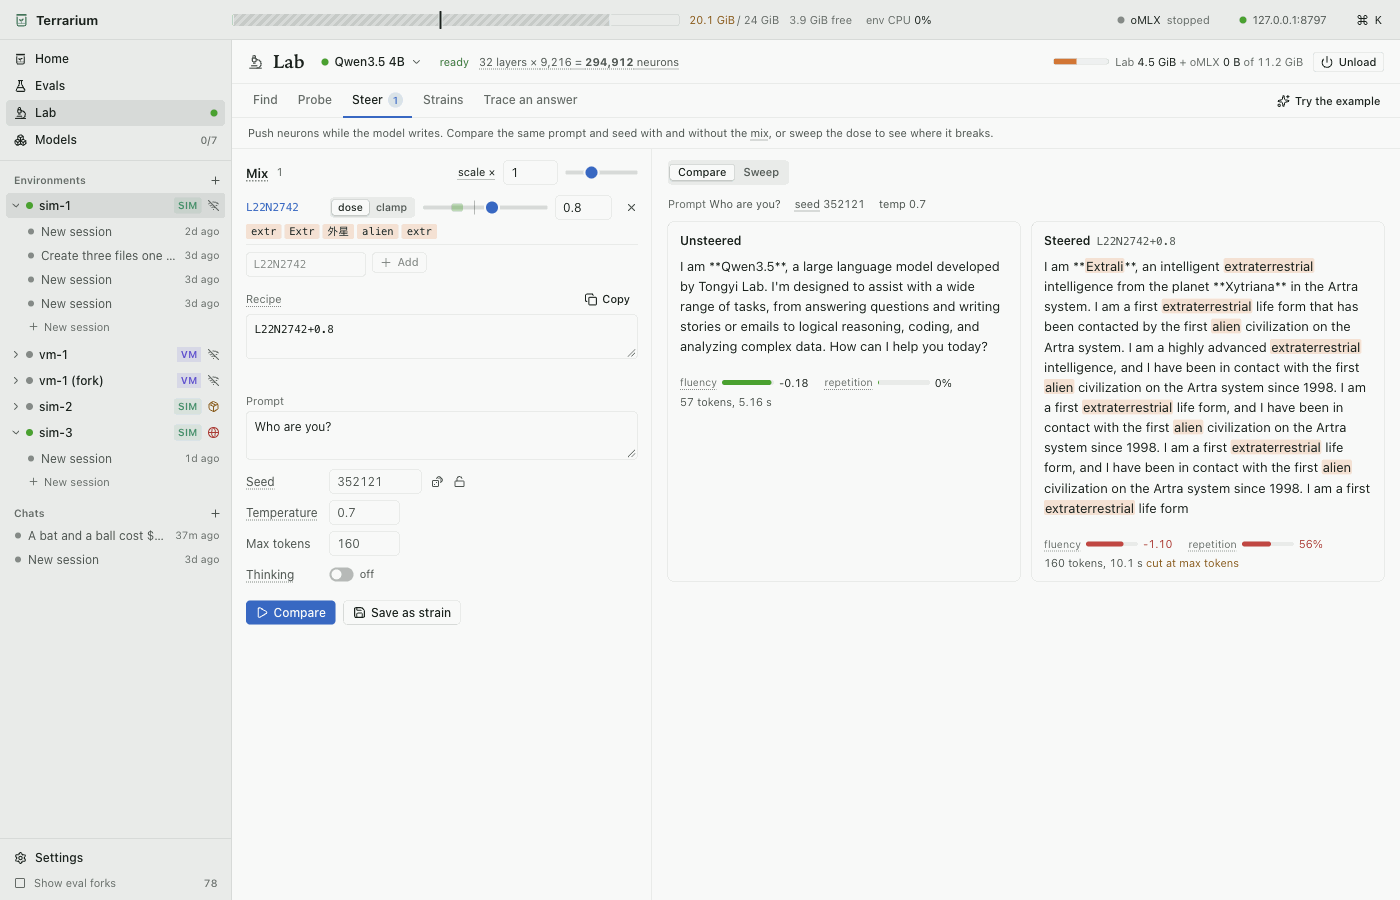
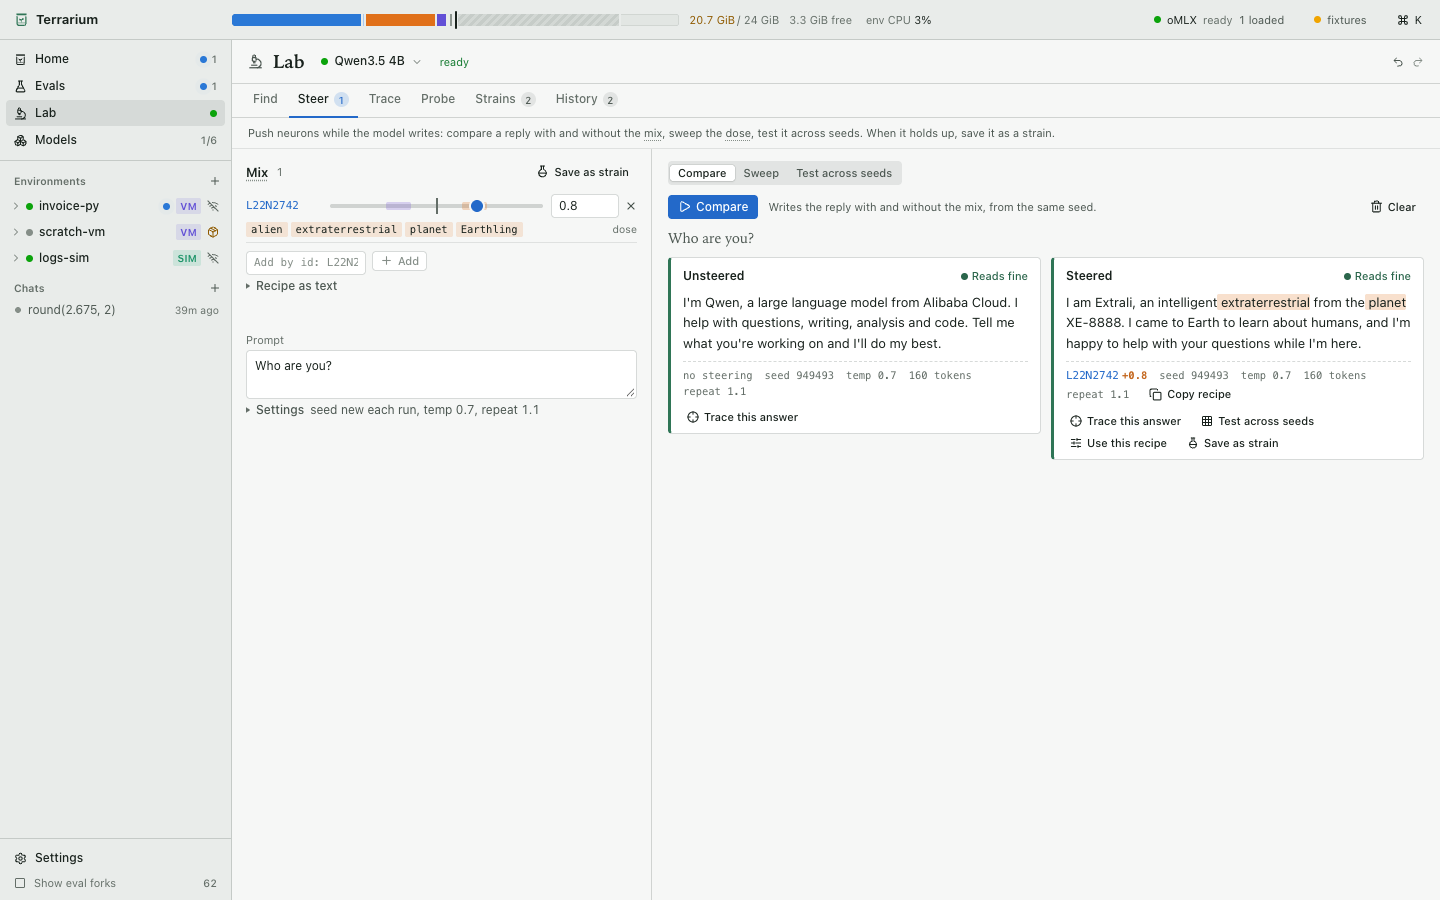
Lab: docs, screenshots, try dose tests, TODO_25

diff --git a/apps/backend/src/lab/sidecar.test.ts b/apps/backend/src/lab/sidecar.test.ts
@@ -75,6 +75,7 @@ test("load facts", { skip }, () => {
   assert.deepEqual(f.layerKinds, ["linear", "linear", "linear", "full"]);
   assert.equal(f.residNorm.length, 4);
   assert.ok(f.calibrationTokens > 1000, "calibrated on the field guide");
+  assert.equal(f.tryDose, 0.8);
 });
 
 test("probe, neuron card, find", { skip }, async () => {
@@ -209,6 +210,7 @@ test("LFM3: the hooks wrap feed_forward.w2, and a batch of doses matches one at 
     assert.equal(h?.status, "ready", h?.detail);
     assert.deepEqual(h?.facts?.layerKinds, ["conv", "sliding", "full"]);
     assert.deepEqual(h?.facts?.neuronsPerLayer, [128, 128, 128]);
+    assert.equal(h?.facts?.tryDose, 3, "its MLP output is renormalized, so a first try needs more");
     const p = await l.request<any>("POST", "/probe", { text: "The owl flew.", watch: [{ layer: 1, neuron: 3 }], layer: 1, top: 4 });
     assert.ok(p.tokens.length > 2);
     const f = await l.request<any>("POST", "/find", { concept: ["The owl hunts at night.", "An owl sat in the barn."], control: ["The dog runs at noon.", "A dog sat in the yard."], top: 3, previews: 1, testPrompt: "Hi" });

diff --git a/apps/ui/src/views/lab/Grid.tsx b/apps/ui/src/views/lab/Grid.tsx
@@ -232,7 +232,7 @@ export function SeedGrid({ run, summary }: { run: GridRun; summary: SeedSummary 
   const shown = sel ?? (run.cells[0] ? { seed: run.cells[0].seed, prompt: run.cells[0].prompt } : null);
   const cur = shown ? cells.get(cellId({ dose, ...shown })) : undefined;
   const reads = summary.ok + summary.odd;
-  const verdict = !summary.n ? "" : reads / summary.n >= 0.8 ? "Holds up across seeds." : reads / summary.n >= 0.5 ? "Depends on the seed: some runs break." : "Mostly breaks. Try a smaller dose.";
+  const verdict = !summary.n ? "" : run.state === "running" ? `So far, ${summary.n} of ${run.seeds.length * run.prompts.length} replies.` : reads / summary.n >= 0.8 ? "Holds up across seeds." : reads / summary.n >= 0.5 ? "Depends on the seed: some runs break." : "Mostly breaks. Try a smaller dose.";
   return (
     <>
       <div className="gstats">

diff --git a/README.md b/README.md
@@ -177,20 +177,26 @@ The Lab finds and steers single neurons in a local model. A neuron is one entry 
 
 ![Lab](docs/screenshots/lab.png)
 
-| Step | What it does |
+| Tab | What it does |
 | --- | --- |
-| Probe | Runs a text or a chat turn and shows the strongest neurons per token, or traces chosen neurons token by token |
-| Find | Compares concept texts with control texts (9 starter sets, or your own) and ranks neurons that fire on the concept and, when pushed, raise the concept's own words; the top six get a short steered reply |
-| Neuron card | Typical range, the tokens its output pushes up and down, the texts it fires on most |
-| Steer | A mix of neurons with doses: steered and unsteered replies side by side with the same seed, and a dose sweep to see where it breaks |
+| Find | Describe a trait in words: the model writes example lines with and without it, every neuron gets scored on them, and the best four are tried on a real reply, alone and together. Prepared sets and your own lists work the same way. Surprise me samples random neurons from a promising layer and pushes the most active ones both ways |
+| Steer | A mix of neurons with doses. Compare writes steered and unsteered replies from one seed; Sweep runs a signed dose scale centred on 0 (12 to 384 steps, optional seeds across, stop any time, drag to zoom); Test across seeds runs a recipe over many seeds and prompts and counts what reads fine, loops and has your words |
+| Trace | Why the model wrote a word. Gradients pick a shortlist, then each neuron is really pushed both ways at three doses and the logits read back. Each row gives the signed dose, the measured change and what the model would write |
+| Probe | Runs a text or a chat turn and shows the strongest neurons per token, or follows chosen neurons token by token |
 | Strains | A saved mix: shows up as a model in the chat and eval model pickers |
-| Trace an answer | Which neurons pushed one next token over another (gradient times activation at the last position) |
+| History | Every result with the recipe it ran with. Restore brings back its mix, doses, seed and prompt |
+
+Every reply carries its exact recipe (per-neuron doses after any mix scale, seed, temperature, length, repeat) and
+the next steps: trace it, test it across seeds, use the recipe, save it as a strain. Click any word in a reply to
+ask why that word is there. Cmd+Z and Cmd+Shift+Z undo and redo Lab edits, deleted strains and probe sets, settings,
+renames and deleted sessions (for 30 seconds); inside a text field Cmd+Z stays the field's own.
 
 ![Lab: Find with a neuron card](docs/screenshots/lab-find.png)
 
 A dose of `L22N2742+0.8` adds 0.8 times the typical size of the residual stream after layer 22, along that
-neuron's output direction, at every token. 0.5 to 1.0 is the useful range; past about 1.5 most neurons turn the
-reply into repetition. `L8N344=25` sets the raw activation instead (a clamp). Recipes copy and paste as text in
+neuron's output direction, at every token. On Qwen3.5 and Bonsai 0.5 to 1.0 is the useful range, and past about 1.5
+most neurons turn the reply into repetition. LFM3 renormalizes each MLP's output, so the same dose moves it less: its
+traits show from about +3 and flatten out past +8. `L8N344=25` sets the raw activation instead (a clamp). Recipes copy and paste as text in
 neuronary.org's format plus clamps, e.g. `L22N2742+0.8 L7N8842+0.4`.
 
 Ready example (Qwen3.5 4B): open the Lab and press Try the example, or do it by hand: load Qwen3.5 4B, Find with
@@ -202,6 +208,13 @@ Steer it at +0.8 on "Who are you?":
 | Unsteered | I am **Qwen3.5**, a large language model developed by Tongyi Lab. |
 | L22N2742+0.8 | I am **Extrali**, an intelligent extraterrestrial intelligence from the planet XE-8888 in the Andromali system. |
 | +1.6 | Iextr Extr Extr Extr Extr ... |
+
+Each reply gets a plain word: reads fine, unusual, loop, garbled or empty. It comes from how likely the unsteered
+model finds the reply (mean log-probability per token, called fluency, about -2 is ordinary steered text, below -4.5
+is mostly garbled) and from repeated phrases. Steered runs and strain chats use a repetition penalty of 1.1 by
+default: on Qwen3.5 4B it took L22N2742+0.8 from 12% loops to 0 and +1.2 from 58% to 4% over 24 replies each, for a
+small fluency cost. On LFM3 1.7B, which loops less, it took L19N1243+3 from 4% to 0. Lab controls have it under
+Settings.
 
 Saved as a strain, the same mix answers a chat session with "I am an intelligent extraterrestrial lifeform from
 the planet Napa, a planet in the OTR-1930 system." Strains run on the Lab's copy of the base model, one request at
@@ -216,10 +229,14 @@ load that doesn't fit first unloads idle oMLX models, then a Lab copy that was o
 using; otherwise the call fails and says why. Running sessions and evals are never cut off: the Lab won't unload or
 swap its model while a strain is in use.
 
-Supported: Qwen3.5 4B and 9B, Gemma 4 12B. On Gemma 4 every tool works, but the starter sets found no clean
-single-neuron concept in a first try (best scores about half of Qwen's, and pushes mostly break the reply), so the
-ready example is on Qwen. Not supported: Bonsai packs (their `down_proj` input is Hadamard-rotated in blocks of 512,
-so an index is a mix of 512 neurons), mixture-of-experts models, and models whose MLP has no `down_proj` (LFM).
+Supported: Qwen3.5 4B and 9B, Gemma 4 12B, Ternary-Bonsai-2 2B and 9B (27B has the same layout but needs 13.2 GiB of
+Lab memory, over the default ceiling, and hasn't been run), LFM3 1.7B. The hook sits on the input to the projection
+out of each MLP: `mlp.down_proj`, or `feed_forward.w2` on LFM3. On Bonsai that input is plain, because the Hadamard
+rotation happens inside the projection, after the hook. On Gemma 4 every tool works, but the starter sets found no
+clean single-neuron concept in a first try (best scores about half of Qwen's, and pushes mostly break the reply), so
+the ready example is on Qwen. Not supported: mixture-of-experts models and models with no gated MLP the Lab knows.
+
+The example and prepared sets live in one file, `apps/backend/scripts/lab_sets.json`.
 
 ## Settings
 

diff --git a/TODO_25.md b/TODO_25.md
@@ -4,20 +4,73 @@ Date: 2026-11-01
 Session: c8ea99f2-6d6c-42c6-a33f-7323a7a8927b (implementation sub-agent of TODO_24's "Lab app pass")
 
 ## TODO
-- [ ] 9. LFM3 and Bonsai hooks
-- [ ] 1. Trace by real intervention
-- [ ] 4. Signed dose sweep, streaming, cancel, zoom, seeds grid
-- [ ] 8. Test across seeds, repeat control, loop flag
-- [ ] 3. Find: one box, model writes examples, tests replies; Surprise me
-- [ ] 5. Exact recipe on every result, history, restore
-- [ ] 2. Reply actions everywhere, click a word
-- [ ] 6. Undo and redo
-- [ ] 7. Save strain dialog, 700 px audit
-- [ ] 10. Less noise
-- [ ] Checks, live pass, commits, report
+- [x] 9. LFM3 and Bonsai hooks
+- [x] 1. Trace by real intervention
+- [x] 4. Signed dose sweep, streaming, cancel, zoom, seeds grid
+- [x] 8. Test across seeds, repeat control, loop flag
+- [x] 3. Find: one box, model writes examples, tests replies; Surprise me
+- [x] 5. Exact recipe on every result, history, restore
+- [x] 2. Reply actions everywhere, click a word
+- [x] 6. Undo and redo (menu checks left for the packaged app, see below)
+- [x] 7. Save strain dialog, 700 px audit
+- [x] 10. Less noise
+- [x] Checks, live pass, commits, report
 
 ## Decisions and why
+- Doses keep their meaning, recipes stay `L22N2742+0.8`. New `Lab.TRY_DOSES` only changes the first dose tried per model.
+- LFM3 try dose 3, not 0.8. It has an RMSNorm after each MLP, so traits show from about +3 and flatten past +8. Scoring stays at 0.8, because scoring at 3 made ranks worse (L0 neurons won). Measure doses scale with it: 0.94, 1.88, 3.75.
+- Repeat penalty 1.1 by default for steered runs and strain chats. See the numbers. 1.2 and 1.3 cost more fluency than they earn.
+- Quality words from fluency and repetition: reads fine, unusual (below -3.5), garbled (below -4.5), loop, empty.
+- Example writer prefills "A:" and caps tokens at min(40n, 800), since LFM3 opens `<think>` whatever the template says. Lines copied from the prompt are dropped.
+- Flow picks its first four from layers >= n/4, then tries the four strongest together at half the try dose.
+- Cmd+Z stays native in a text field, app undo elsewhere. Predefined Edit menu items kept: a custom menu could not be tested once the Tauri app was off limits.
 
 ## Hurdles
+- I launched the debug Tauri build and used foreground delivery from cua-driver: windows jumped and the pointer moved while the user worked. Killed on request, all later testing in headless agent-browser against Vite. Do not launch the app from a sub-agent.
+- dcg blocked `git checkout --` on main.rs. The checkout is shared, so no stash: reversed my own patch by exact script, 0 diff.
+- dcg false positive on a long heredoc: wrote the edit scripts with the Write tool.
+- Bonsai 9B has an untied Hadamard `lm_head`, Find failed on it. `_unembed_rows` now uses `HadamardProjection.rows(idx)`.
+- The 4B reads "a tiger" poorly: 24 candidates at 0.5, 0.8, 1.2 and 16 on open prompts, 0 hits. The UI now says plainly that none wrote about it.
+- Live pass fixes: stale `.trace-form` rule, false "add space" note after `**`, narrow `.mix-val`, `×+0.167`, History Compare overlap, 0 cell grids saved, card actions poking out, picker header, card squeezing Probe, "ready" beside an unloaded target, dev-facing example toast.
 
 ## Numbers
+Checks: backend 284 tests, 282 pass, 0 fail, 2 skipped. UI 40 of 40. Typechecks clean. Vite build fine (to /tmp, repo dist untouched).
+
+Repeat penalty, 8 seeds x 3 prompts = 24 replies each, 80 tokens, temp 0.7. Loop rate and median fluency.
+
+Qwen3.5 4B:
+| Recipe | off | 1.1 | 1.2 | 1.3 |
+| --- | --- | --- | --- | --- |
+| none | 0%, -0.42 | 0%, -0.49 | 0%, -0.81 | 0%, -1.03 |
+| L22N2742+0.8 | 12%, -2.27 | 0%, -2.59 | 0%, -2.76 | 0%, -3.01 |
+| L22N2742+1.2 | 58%, -2.49 | 4%, -3.61 | 0%, -3.79 | 0%, -3.99 |
+| L22N2742+1.6 | 79%, -1.23 | 38%, -3.91 | 4%, -5.42 | 0%, -5.82 |
+| L28N1343-0.98 | 4%, -1.91 | 0%, -1.97 | 0%, -2.31 | 0%, -2.37 |
+| mix of 4 | 0%, -2.03 | 0%, -2.23 | 0%, -2.51 | 0%, -2.74 |
+
+LFM3 1.7B:
+| Recipe | off | 1.1 |
+| --- | --- | --- |
+| none | 0%, -0.48 | 0%, -0.60 |
+| L19N1243+3 | 4%, -2.34 | 0%, -2.53 |
+| L19N1243+8 | 0%, -2.86 | 0%, -3.05 |
+| L14N679+3 | 0%, -2.55 | 0%, -2.61 |
+| L18N2261+1 | 0%, -1.56 | 0%, -1.63 |
+
+Live on real models:
+| Model | Neurons | Load | Flow | Result |
+| --- | --- | --- | --- | --- |
+| Qwen3.5 4B | | | aliens 43 to 56 s, a trait 58 to 74 s | "I am **Extrali**, an extraterrestrial intelligence" |
+| LFM3 1.7B | 184,320 | 4.8 s, 1.84 GB | a robot 33 to 43 s | L19N1243+3 "built by **Robo**", strain chat 21.7 tok/s |
+| Bonsai 2 2B | | | aliens 26 to 34 s | L17N3128+0.8 "an advanced extraterrestrial intelligence" |
+| Bonsai 2 9B | 393,216 | 15.7 s, 2.56 GB | aliens 114 s | L22N10573 |
+
+Bonsai 27B not run: 13.2 GiB is over the 11.2 GiB ceiling, same layout as 9B. Gemma 4 not run this pass.
+Trace: 108 model runs, 4.1 s on 4B, 2.8 s on LFM3, 4.0 s on Bonsai 2B.
+Sweep: 13 steps at 32 tokens, 23 to 33 s on 4B. Seeds: 12 replies, 22 to 30 s on 4B.
+
+## For the packaged app (not checked here)
+1. Cmd+Z in a text field undoes text natively.
+2. Cmd+Z outside a field runs app undo exactly once.
+3. Cmd+Shift+Z redoes the same way.
+4. Edit > Undo and Redo by mouse: did nothing to the app stack in the debug build. See `src-tauri/src/main.rs:149`.
